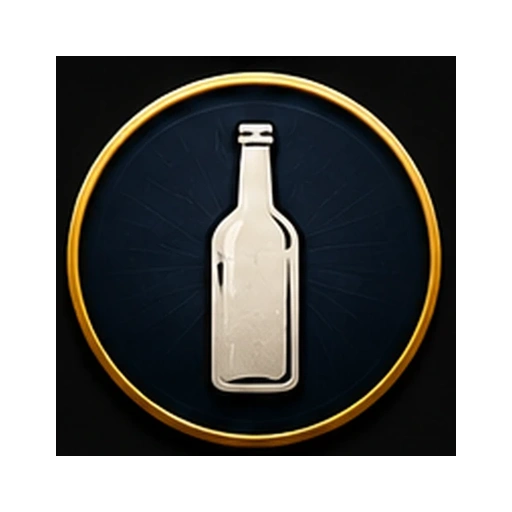
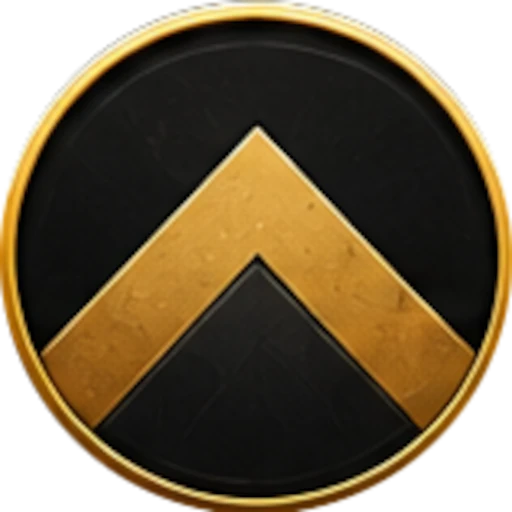
patch_visit_score_cleanup_x01

diff --git a/src/components/ScoreInputHub.tsx b/src/components/ScoreInputHub.tsx
@@ -475,7 +475,7 @@ function VisitScoreKeypad({
 }: {
   disabled: boolean;
   feedback?: React.ReactNode;
-  onSubmit: (score: number, opts?: { bust?: boolean; source?: "typed" | "quick" | "miss" | "bull25" | "bull50" | "next" }) => void;
+  onSubmit: (score: number, opts?: { bust?: boolean; source?: "typed" | "quick" | "next" | "bust" }) => void;
   onCancel: () => void;
   onCorrectEmpty: () => void;
   fitToParent: boolean;
@@ -525,12 +525,7 @@ function VisitScoreKeypad({
     color: "#ffb4b4",
     border: "1px solid rgba(255,90,90,.34)",
   };
-  const btnBull: React.CSSProperties = {
-    ...btnBase,
-    background: "rgba(22,92,66,.35)",
-    color: "#8be0b8",
-  };
-  const btnPreset: React.CSSProperties = {
+    const btnPreset: React.CSSProperties = {
     ...btnBase,
     height: compactFit ? "clamp(30px, 5.8vw, 36px)" : "clamp(34px, 7vw, 42px)",
     borderRadius: compactFit ? 12 : 14,
@@ -563,7 +558,7 @@ function VisitScoreKeypad({
     });
   };
 
-  const submit = (score: number, source: "typed" | "quick" | "miss" | "bull25" | "bull50" | "next" = "typed") => {
+  const submit = (score: number, source: "typed" | "quick" | "next" | "bust" = "typed") => {
     if (disabled) return;
     const n = Math.max(0, Math.min(180, Math.floor(Number(score) || 0)));
     setLocalError(null);
@@ -616,7 +611,7 @@ function VisitScoreKeypad({
       >
         <div style={{ ...wrapCard, width: "100%", maxWidth: "100%", margin: "0 auto", paddingBottom: "calc(8px + env(safe-area-inset-bottom))" }}>
           <div style={{ display: "grid", gridTemplateColumns: "1fr auto 1fr", alignItems: "center", gap: compactFit ? 8 : 10, marginBottom: compactFit ? 8 : 10 }}>
-            <button type="button" style={btnDanger} disabled={disabled} onClick={() => onSubmit(0, { bust: true })}>BUST</button>
+            <button type="button" style={btnDanger} disabled={disabled} onClick={() => { setLocalError(null); setRaw(""); onSubmit(0, { bust: true, source: "bust" }); }}>BUST</button>
             <div
               aria-live="polite"
               style={{
@@ -637,28 +632,7 @@ function VisitScoreKeypad({
             >
               {raw || "0"}
             </div>
-            <button type="button" style={btnGold} disabled={disabled} onClick={() => submitTyped("typed")}>ENTRER</button>
-          </div>
-
-          <div style={{ display: "grid", gridTemplateColumns: "repeat(4, minmax(0, 1fr))", gap: compactFit ? 6 : 8, marginBottom: compactFit ? 8 : 10 }}>
-            <button type="button" style={btnBase} disabled={disabled} onClick={() => submit(0, "miss")}>MISS</button>
-            <button type="button" style={btnBull} disabled={disabled} onClick={() => submit(25, "bull25")}>BULL 25</button>
-            <button type="button" style={btnBull} disabled={disabled} onClick={() => submit(50, "bull50")}>BULL 50</button>
-            <button
-              type="button"
-              style={btnBase}
-              disabled={disabled}
-              onClick={() => {
-                setLocalError(null);
-                if (raw.trim().length > 0) {
-                  setRaw("");
-                  return;
-                }
-                onCancel();
-              }}
-            >
-              ANNULER
-            </button>
+            <button type="button" style={btnBase} disabled={disabled} onClick={clearOne}>CORRIGER</button>
           </div>
 
           <div style={{ display: "grid", gridTemplateColumns: "repeat(6, minmax(0, 1fr))", gap: compactFit ? 6 : 7, marginBottom: compactFit ? 8 : 10 }}>
@@ -675,9 +649,15 @@ function VisitScoreKeypad({
                 {digit}
               </button>
             ))}
-            <button type="button" style={btnBase} disabled={disabled} onClick={clearOne}>CORRIGER</button>
             <button type="button" style={btnBase} disabled={disabled} onClick={() => pushDigit(0)}>0</button>
-            <button type="button" style={btnGold} disabled={disabled} onClick={() => submitTyped("next")}>NEXT PLAYER</button>
+            <button
+              type="button"
+              style={{ ...btnGold, gridColumn: "span 2" }}
+              disabled={disabled}
+              onClick={() => submitTyped("next")}
+            >
+              NEXT PLAYER
+            </button>
           </div>
 
           {(localError || feedback) ? (
@@ -686,7 +666,7 @@ function VisitScoreKeypad({
             </div>
           ) : (
             <div style={{ marginTop: compactFit ? 8 : 10, color: "rgba(255,255,255,.54)", fontSize: compactFit ? 10.8 : 11.5, fontWeight: 750, textAlign: "center" }}>
-              Saisie rapide du total : les stats S/D/T seront masquées pour cette partie.
+              Saisie rapide du total : aucune volée détaillée ne sera affichée pour cette partie.
             </div>
           )}
         </div>

diff --git a/src/pages/X01PlayV3.tsx b/src/pages/X01PlayV3.tsx
@@ -402,8 +402,10 @@ function renderLastVisitChips(
   pid: string,
   lastVisits: Record<string, UIDart[]>,
   isBust?: boolean,
-  bustCount?: number
+  bustCount?: number,
+  hideAll?: boolean
 ) {
+  if (hideAll) return null;
   const darts = lastVisits[pid] ?? [];
   if (!darts.length) return null;
 
@@ -5468,6 +5470,7 @@ if (isLandscapeTablet) {
                 lastVisitIsBustByPlayer={lastVisitIsBustByPlayer}
                 lastVisitBustCountByPlayer={lastVisitBustCountByPlayer}
                 avg3ByPlayer={avg3ByPlayer}
+                hideLastVisitDetails={configuredScoreInputMethod === "visit_score"}
               />
             ) : (
               <PlayersListOnly
@@ -5485,6 +5488,7 @@ if (isLandscapeTablet) {
                 lastVisitIsBustByPlayer={lastVisitIsBustByPlayer}
                 lastVisitBustCountByPlayer={lastVisitBustCountByPlayer}
                 avg3ByPlayer={avg3ByPlayer}
+                hideLastVisitDetails={configuredScoreInputMethod === "visit_score"}
               />
             )}
           </div>
@@ -6807,6 +6811,7 @@ function TeamsPlayersList(props: {
   lastVisitIsBustByPlayer: Record<string, boolean>;
   lastVisitBustCountByPlayer: Record<string, number>;
   avg3ByPlayer: Record<string, number>;
+  hideLastVisitDetails?: boolean;
 }) {
   const {
     cameraOpen,
@@ -6821,6 +6826,7 @@ function TeamsPlayersList(props: {
     lastVisitIsBustByPlayer: rawLastVisitIsBustByPlayer,
     lastVisitBustCountByPlayer: rawLastVisitBustCountByPlayer,
     avg3ByPlayer: rawAvg3ByPlayer,
+    hideLastVisitDetails = false,
   } = props;
 
   const teams = Array.isArray(rawTeams) ? rawTeams : [];
@@ -6972,7 +6978,8 @@ function TeamsPlayersList(props: {
                         p.id,
                         lastVisitsByPlayer,
                         (lastVisitIsBustByPlayer as any)?.[p.id],
-                        (lastVisitBustCountByPlayer as any)?.[p.id]
+                        (lastVisitBustCountByPlayer as any)?.[p.id],
+                        hideLastVisitDetails
                       )}
                     </div>
                     <div style={{ fontSize: 11.5, color: "#cfd1d7", marginTop: 2 }}>
@@ -7041,6 +7048,7 @@ function PlayersListOnly(props: {
   lastVisitIsBustByPlayer: Record<string, boolean>;
   lastVisitBustCountByPlayer: Record<string, number>;
   avg3ByPlayer: Record<string, number>;
+  hideLastVisitDetails?: boolean;
 }) {
   const {
     cameraOpen,
@@ -7057,6 +7065,7 @@ function PlayersListOnly(props: {
     lastVisitIsBustByPlayer: rawLastVisitIsBustByPlayer,
     lastVisitBustCountByPlayer: rawLastVisitBustCountByPlayer,
     avg3ByPlayer: rawAvg3ByPlayer,
+    hideLastVisitDetails = false,
   } = props;
 
   const players = Array.isArray(rawPlayers) ? rawPlayers : [];
@@ -7187,7 +7196,8 @@ function PlayersListOnly(props: {
                         p.id,
                         lastVisitsByPlayer,
                         (lastVisitIsBustByPlayer as any)?.[p.id],
-                        (lastVisitBustCountByPlayer as any)?.[p.id]
+                        (lastVisitBustCountByPlayer as any)?.[p.id],
+                        hideLastVisitDetails
                       )}
               </div>
               <div